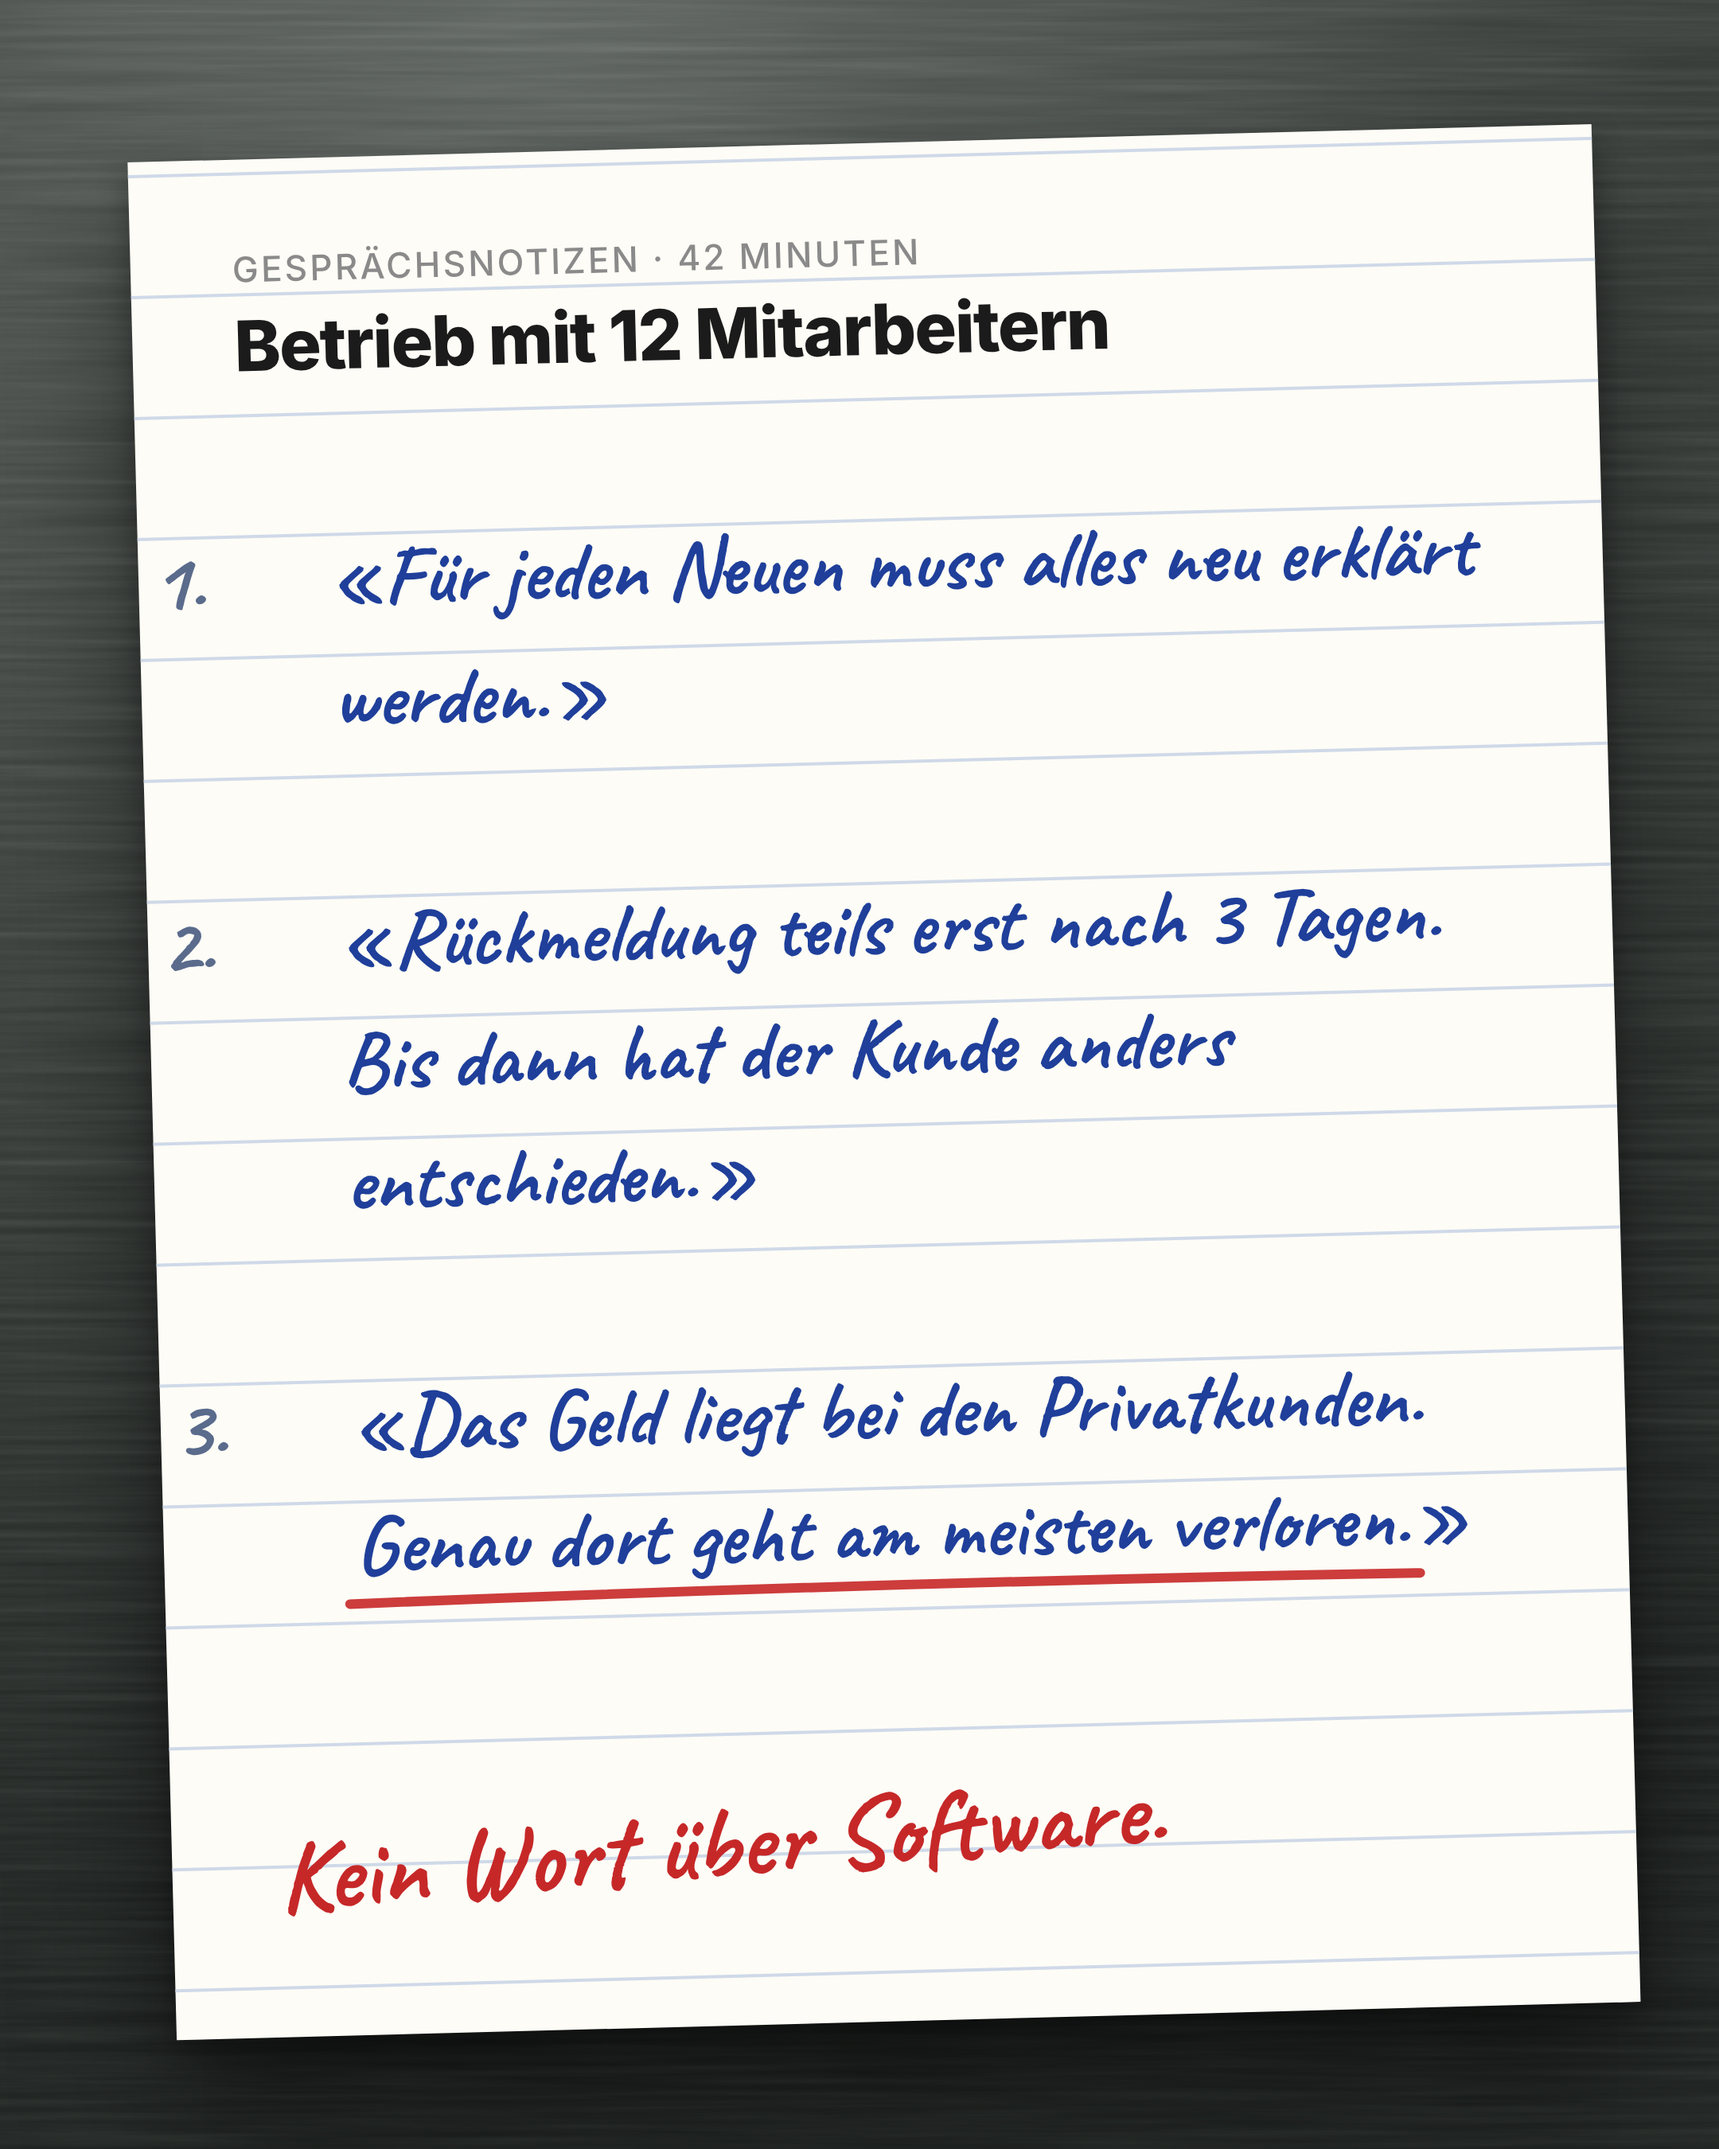
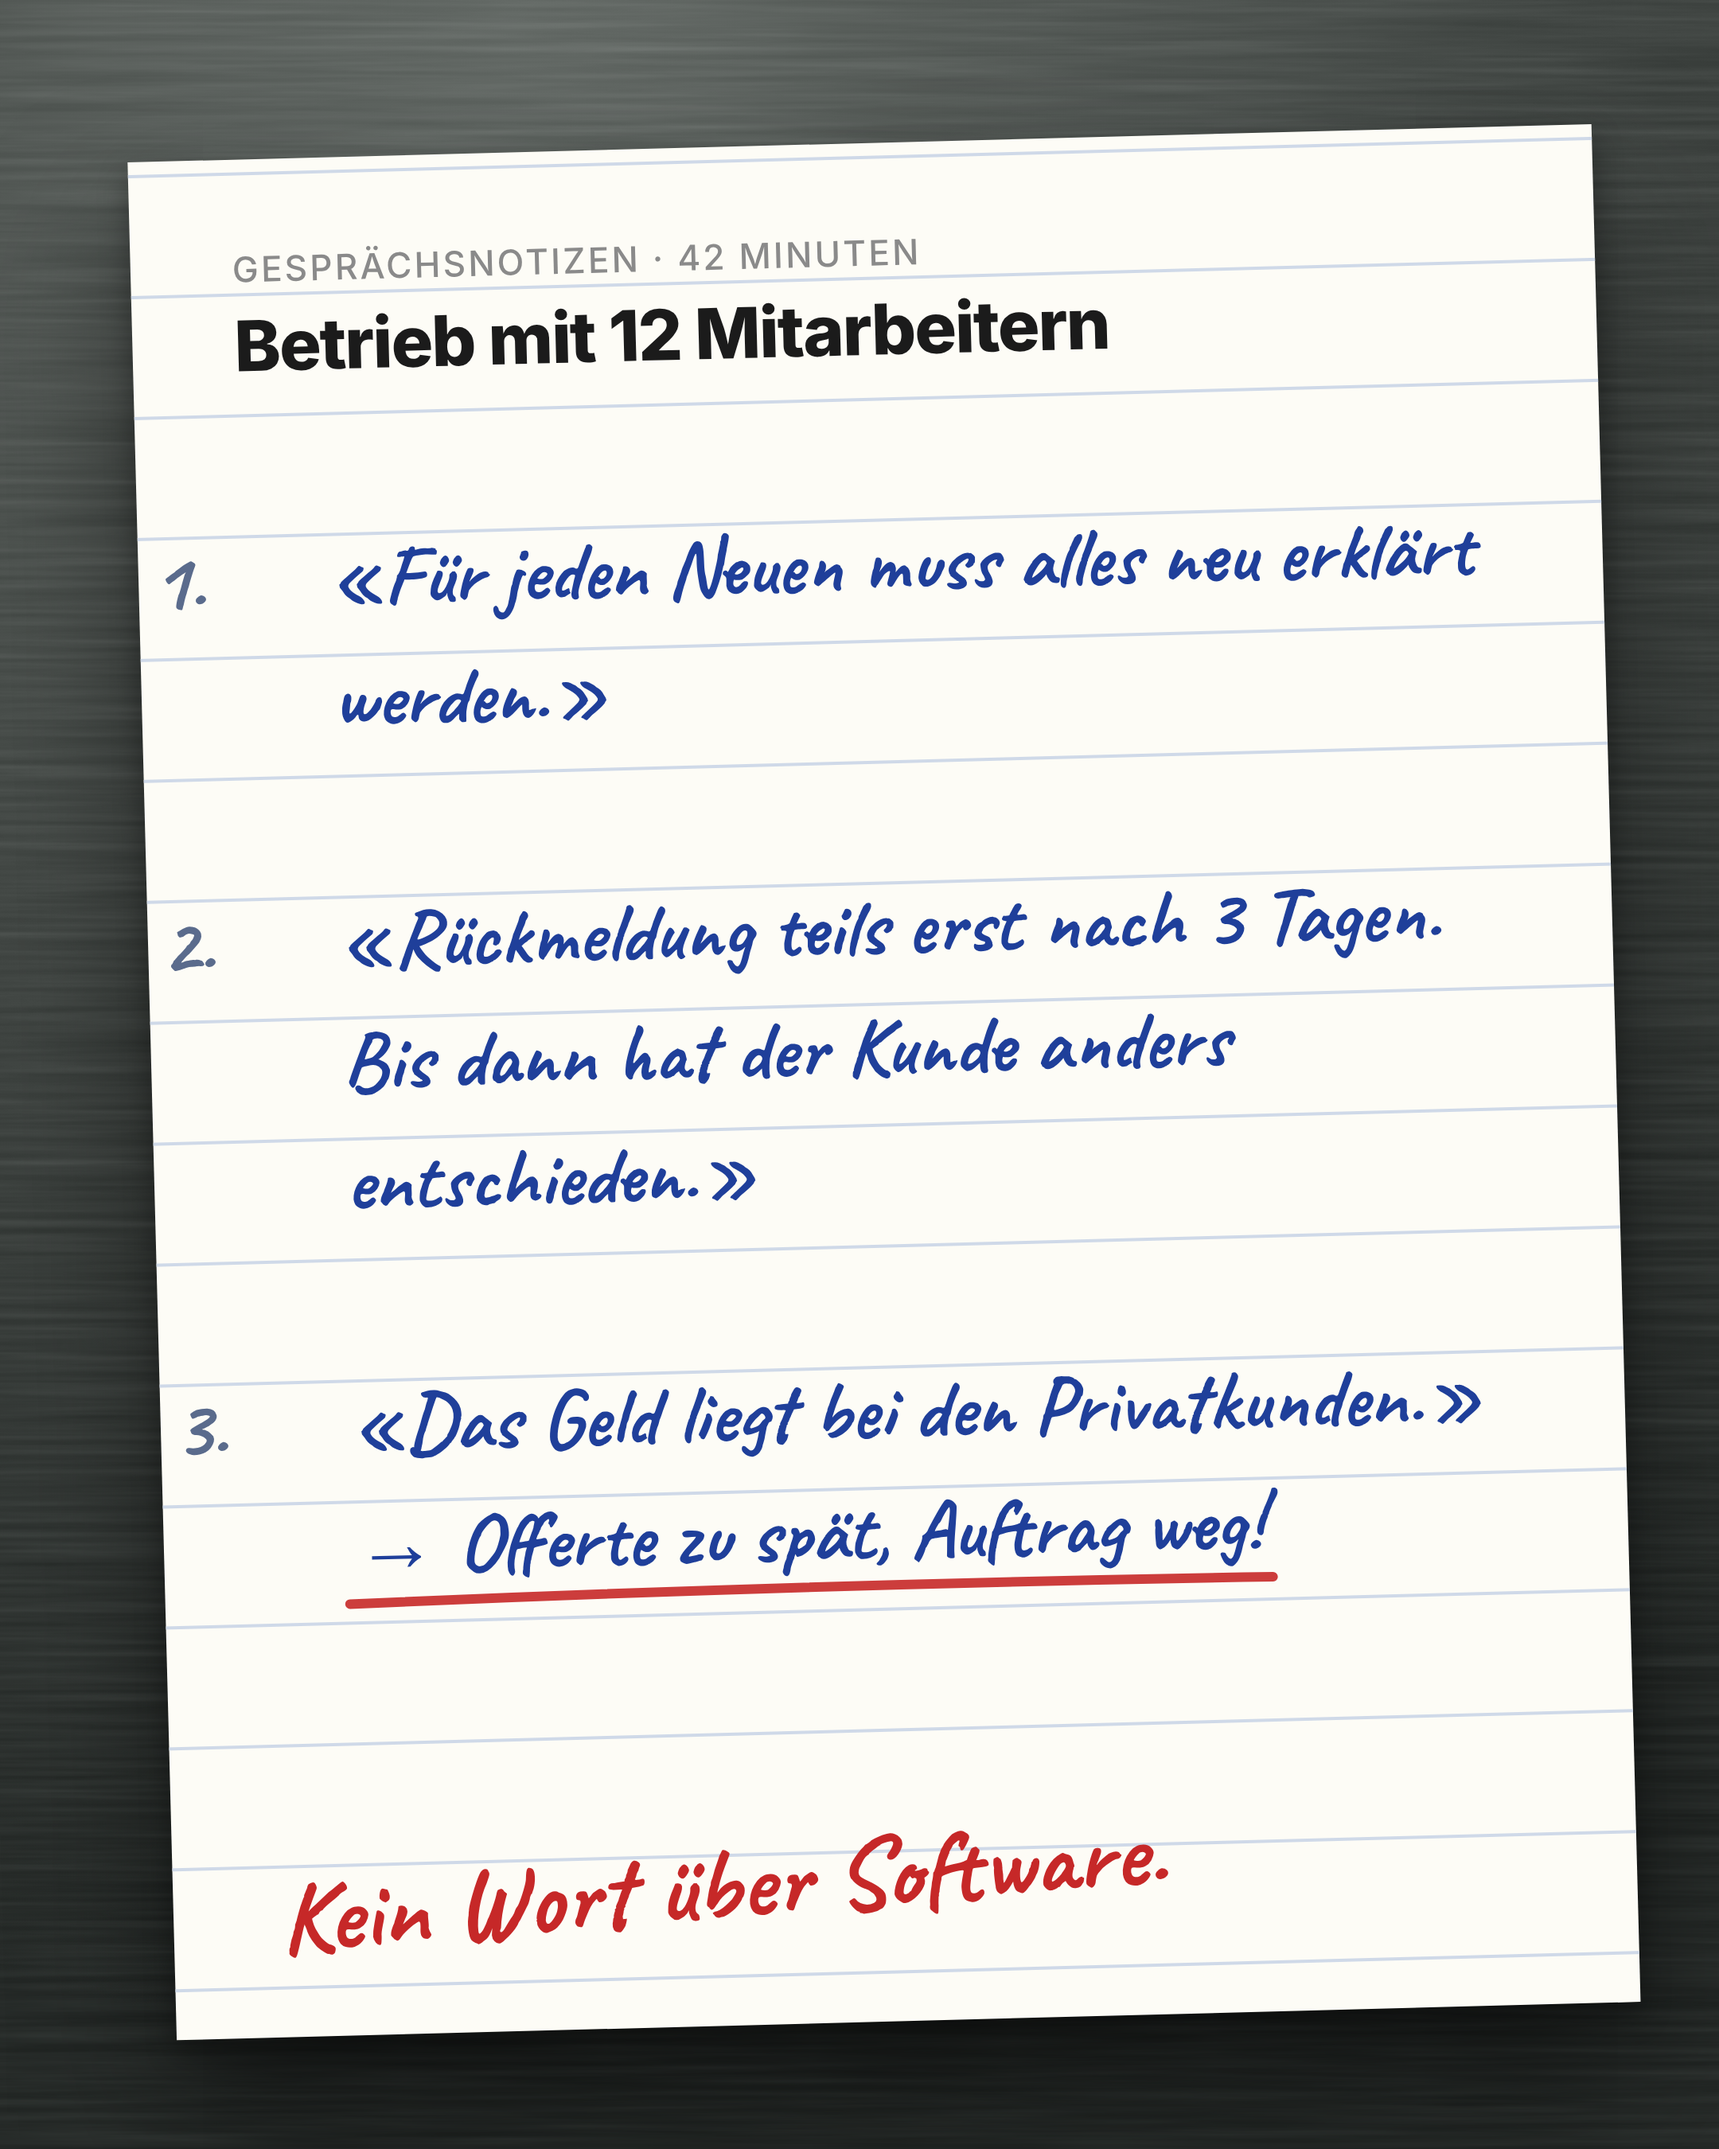
Post 26.11: Satz 3 verständlich, Bild angepasst
Claude-Session: https://claude.ai/code/session_011uqJThEvfyZaZ27wjBcmdt

Changed region(s): [[0.2171, 0.6222, 0.8685, 0.7467], [0.1551, 0.84, 0.4653, 0.9022], [0.4963, 0.84, 0.6824, 0.9022]]

diff --git a/fotos/bild-drei-saetze.html b/fotos/bild-drei-saetze.html
@@ -16,7 +16,8 @@ svg.grain{position:absolute;left:0;top:0;width:1080px;height:1350px;mix-blend-mo
 .hand{position:absolute;left:64px;right:56px;top:226px;font-family:'Caveat',cursive;font-weight:700;color:#1f3f9a;font-size:52px;line-height:76px;}
 .nr{display:inline-block;width:56px;color:#5a6b8c;}
 .zit{display:block;padding-left:56px;text-indent:-56px;margin-bottom:76px;}
-.fuss{position:absolute;left:64px;bottom:60px;font-family:'Caveat',cursive;font-weight:700;color:#c62828;font-size:64px;transform:rotate(-3deg);transform-origin:0 0;}
+.zit:last-child{margin-bottom:0;}
+.fuss{position:absolute;left:64px;bottom:34px;font-family:'Caveat',cursive;font-weight:700;color:#c62828;font-size:64px;transform:rotate(-3deg);transform-origin:0 0;}
 svg.mk{position:absolute;left:0;top:0;width:920px;height:1180px;overflow:visible;pointer-events:none;}
 </style></head><body>
 <div class="s">
@@ -27,7 +28,7 @@ svg.mk{position:absolute;left:0;top:0;width:920px;height:1180px;overflow:visible
     <div class="hand">
       <span class="zit"><span class="nr">1.</span>&#171;F&#252;r jeden Neuen muss alles neu erkl&#228;rt werden.&#187;</span>
       <span class="zit"><span class="nr">2.</span>&#171;R&#252;ckmeldung teils erst nach 3 Tagen. Bis dann hat der Kunde anders entschieden.&#187;</span>
-      <span class="zit"><span class="nr">3.</span>&#171;Das Geld liegt bei den Privatkunden. <span id="satz">Genau dort geht am meisten verloren.</span>&#187;</span>
+      <span class="zit"><span class="nr">3.</span>&#171;Das Geld liegt bei den Privatkunden.&#187;<br><span id="satz">&#8594; Offerte zu sp&#228;t, Auftrag weg!</span></span>
     </div>
     <div class="fuss" id="fuss">Kein Wort &#252;ber Software.</div>
     <svg class="mk" id="mk" viewBox="0 0 920 1180"></svg>

diff --git a/posts/2026-11-26-drei-saetze.md b/posts/2026-11-26-drei-saetze.md
@@ -13,7 +13,8 @@ Ich habe nur Fragen gestellt und das Gespräch aufgenommen.
 
 2. «Rückmeldung teils erst nach 3 Tagen. Bis dann hat der Kunde anders entschieden.»
 
-3. «Das Geld liegt bei den Privatkunden. Genau dort geht am meisten verloren.»
+3. «Das Geld liegt bei den Privatkunden.»
+Und genau diese Aufträge verliert er, weil die Offerte zu spät kommt.
 
 Was mich überrascht hat:
 In keinem der 3 Sätze kommt ein Programm vor.
@@ -35,7 +36,7 @@ Welcher der 3 Sätze fällt in deinem Betrieb am häufigsten?
 
 ## Ehrlichkeit
 
-Quelle: Florians Gesprächsaufnahme der Prozessanalyse Ende September 2026 (42 Minuten, rund 12 Mitarbeitende), siehe wissen/themenspeicher.md, Abschnitt BELEGTES MATERIAL, dort als wörtlich aus dem Protokoll vermerkt. Anonymisiert: keine Firma, kein Ort, keine Branche, keine Software, keine Preise. "Ich habe nur Fragen gestellt und das Gespräch aufgenommen" stimmt für die Analyse. Die Beobachtung "in keinem der 3 Sätze kommt ein Programm vor" stimmt für diese 3 Sätze.
+Am 26.11. auf Florians Wunsch verständlicher gemacht: Satz 3 ist nur noch im ersten Teil wörtlich («Das Geld liegt bei den Privatkunden.»). Die Erklärung danach steht ausserhalb der Anführungszeichen und stützt sich auf die Notizen "Genau dort geht am meisten verloren" und "mehrere Familien verloren, weil die Offerte nicht rechtzeitig rausging". Quelle: Florians Gesprächsaufnahme der Prozessanalyse Ende September 2026 (42 Minuten, rund 12 Mitarbeitende), siehe wissen/themenspeicher.md, Abschnitt BELEGTES MATERIAL, dort als wörtlich aus dem Protokoll vermerkt. Anonymisiert: keine Firma, kein Ort, keine Branche, keine Software, keine Preise. "Ich habe nur Fragen gestellt und das Gespräch aufgenommen" stimmt für die Analyse. Die Beobachtung "in keinem der 3 Sätze kommt ein Programm vor" stimmt für diese 3 Sätze.
 
 ## Angepinnter Kommentar
 
@@ -43,4 +44,4 @@ Keiner nötig. Florian antwortet auf jede Nummer mit einem ganzen Satz zu genau 
 
 ## Bild
 
-fotos/bild-drei-saetze.png (Renderer: fotos/render-drei-saetze.js). Liniertes Notizblatt "Gesprächsnotizen, 42 Minuten, Betrieb mit 12 Mitarbeitern" mit den 3 Sätzen in blauer Handschrift, "Genau dort geht am meisten verloren." rot unterstrichen, unten rot "Kein Wort über Software."
+fotos/bild-drei-saetze.png (Renderer: fotos/render-drei-saetze.js). Liniertes Notizblatt "Gesprächsnotizen, 42 Minuten, Betrieb mit 12 Mitarbeitern" mit den 3 Sätzen in blauer Handschrift, Satz 3 mit Notiz "Offerte zu spät, Auftrag weg!" rot unterstrichen, unten rot "Kein Wort über Software."
